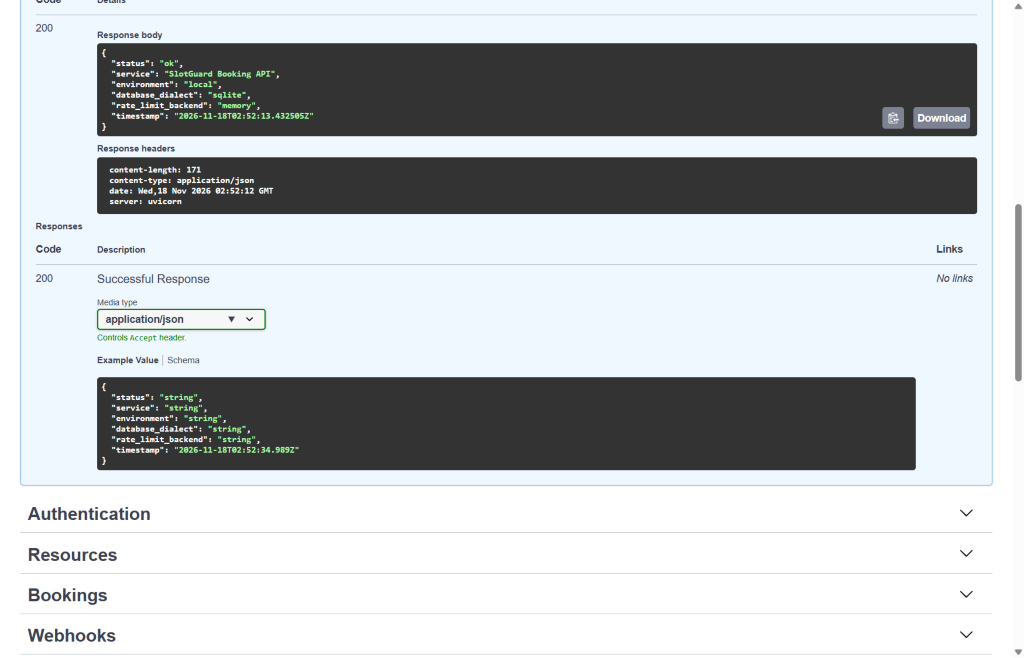
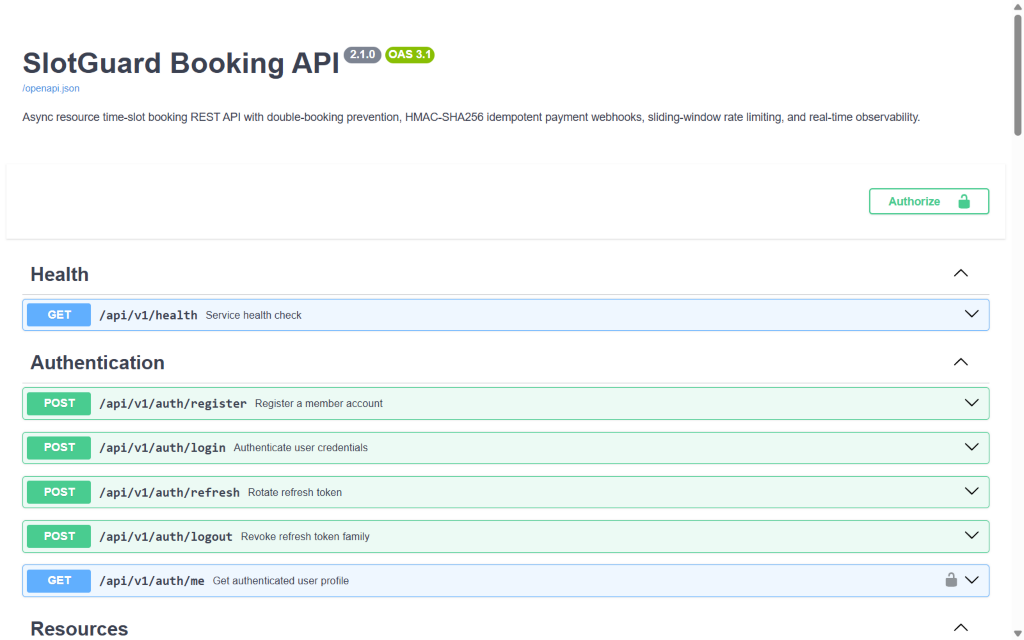
fix(ui): set application/json Content-Type in apiFetch and refresh v2.1 screenshots (#20)

diff --git a/src/slotguard/static/index.html b/src/slotguard/static/index.html
@@ -1127,6 +1127,9 @@
 
       async function apiFetch(path, options = {}) {
         const headers = new Headers(options.headers || {});
+        if (options.body && typeof options.body === "string" && !headers.has("Content-Type")) {
+          headers.set("Content-Type", "application/json");
+        }
         if (state.token && !headers.has("Authorization")) {
           headers.set("Authorization", `Bearer ${state.token}`);
         }
